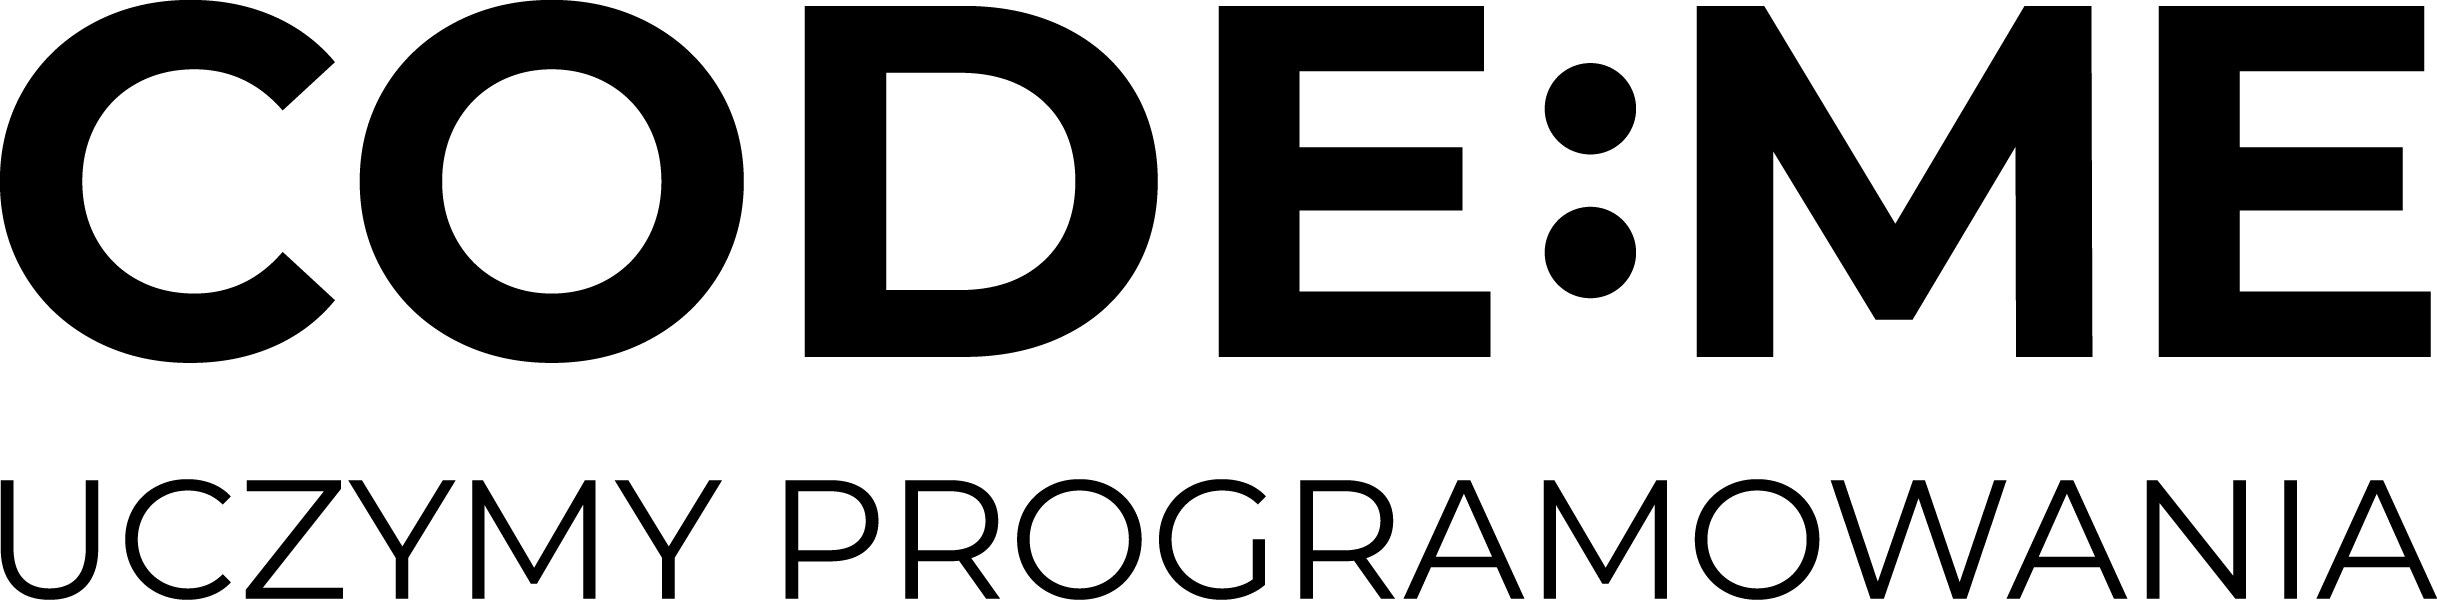
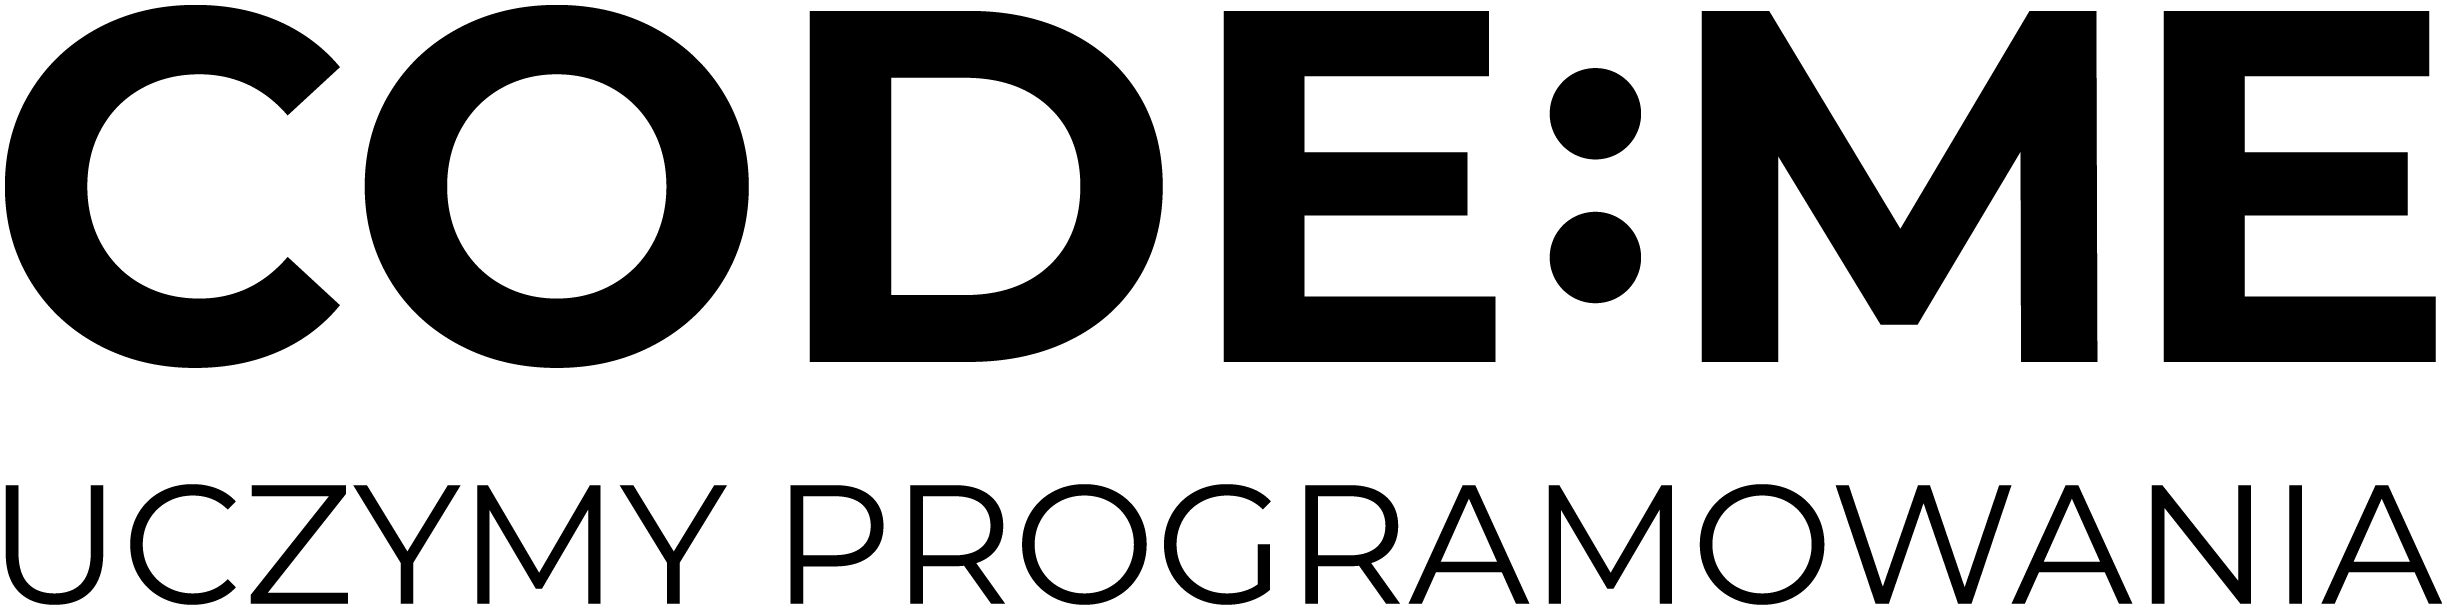
Last fixes (#48)
* Typo przyjdzcie

* Logos adjustment

* Reorder partners

* Monochromancer url

diff --git a/layouts/partials/partners.html b/layouts/partials/partners.html
@@ -1,18 +1,18 @@
 {{if .Site.Data.partners}}
 <div class="strip strip-partners">
   <div class="container-fluid partners">
-    {{ range $group, $items := .Site.Data.partners }}
+    {{ range $group := .Site.Data.partners }}
     <div class="row header-wrapper">
       <div class="col">
         <div class="header pt-2 pb-2 justify-content-center">
-          {{ $group }}:
+          {{ $group.title }}:
         </div>
       </div>
     </div>
     <div class="row justify-content-center">
       <div class="col-10">
         <div class="myGrid myGrid-{{ $group }}">
-          {{ range $items}}
+          {{ range $group.items}}
           <div class="partner">
             <a href="{{ .link }}"><img src="{{ .image }}" alt="{{ .name }}" /></a>
           </div>

diff --git a/content/projekty/dzwiek-jako-obraz.md b/content/projekty/dzwiek-jako-obraz.md
@@ -10,4 +10,4 @@ Zastanawialiście się kiedyś jak wygląda dźwięk?
 	  
 Jest wiele metod by to sprawdzić, jedna z nich wymaga użycia mikrofonu, wzmacniacza i oscyloskopu. No i oczywiście źródła dźwięku którym możecie być Wy sami lub różnego rodzaju instrumenty muzyczne.
 	  
-Przy pomocy takiego zestawu, można zmienić falę akustyczną w falę z zakresu widzialnego, po drodze przesyłając ją jako sygnał elektryczny. A zresztą, przyjdzcie i zobaczcie sami jak wygląda Wasz głos.
+Przy pomocy takiego zestawu, można zmienić falę akustyczną w falę z zakresu widzialnego, po drodze przesyłając ją jako sygnał elektryczny. A zresztą, przyjdźcie i zobaczcie sami jak wygląda Wasz głos.
